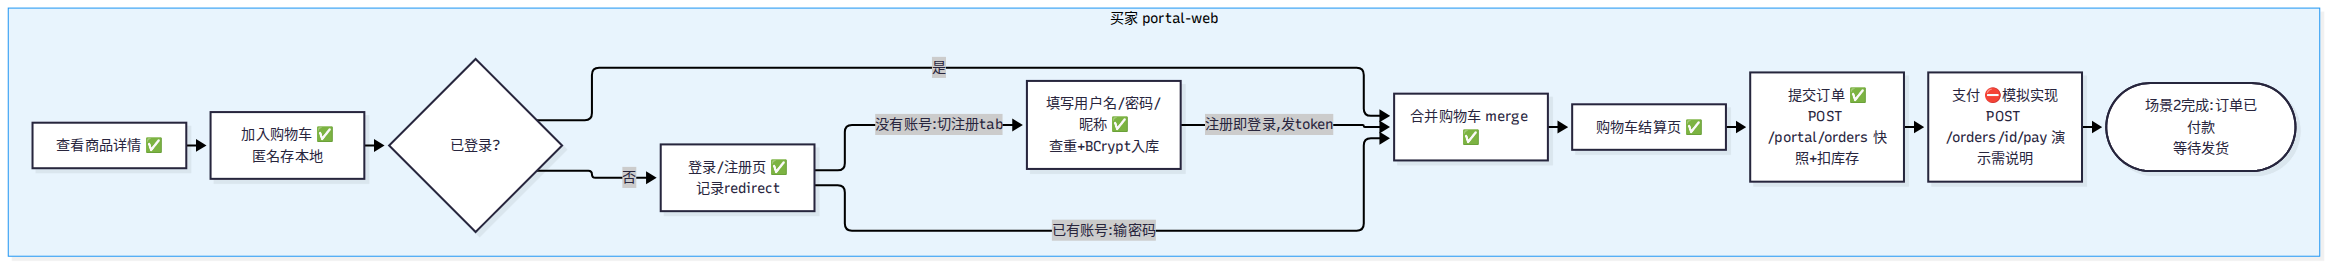
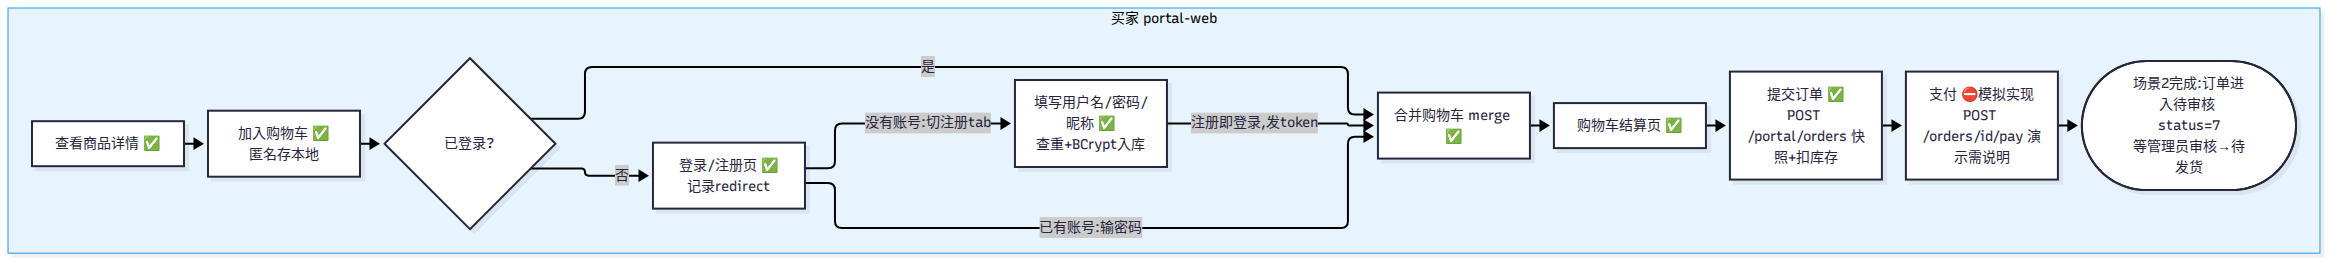
docs: 状态机/场景图文案对齐口径②（支付后直接进待审核，1已付款为瞬时态）+ 走查脚本预期同步 + 三张图重渲染

diff --git a/README.md b/README.md
@@ -166,8 +166,10 @@ docker compose down               # 停止
 
 | 流转 | 接口 | 守卫 | 联动 |
 |---|---|---|---|
-| 待付款→已付款 | `POST /portal/orders/{id}/pay` | status=0 | 写支付流水（type=1） |
-| 已付款→已发货 | `POST /admin/orders/{id}/ship` | status=1 | — |
+| 待付款→待审核 | `POST /portal/orders/{id}/pay` | status=0 | 写支付流水（type=1）；同一次调用内 `0→1已付款→7待审核`，**1 是瞬时态、接口响应中不可观测** |
+| 待审核→待发货 | `POST /admin/orders/{id}/audit-pass` | status=7 | 自动拆单生成发货单 |
+| 待审核→已关闭 | `POST /admin/orders/{id}/audit-reject` | status=7 | 回补库存 |
+| 待发货→已发货 | （发货单驱动的聚合流转） | 全部子单≥已出库 | 部分出库时订单=9部分发货 |
 | 已发货→已完成 | `POST /portal/orders/{id}/confirm` | status=2 且本人订单 | — |
 | 已付款/已发货→退款中 | `POST /portal/returns` | status∈{1,2} 且无待处理申请 | 订单置 5 |
 | 退款中→已退款 | `PUT /admin/return-applies/{id}`（通过） | 仅 return_apply 待处理 | 退款流水（type=2）+ 库存回补 |
